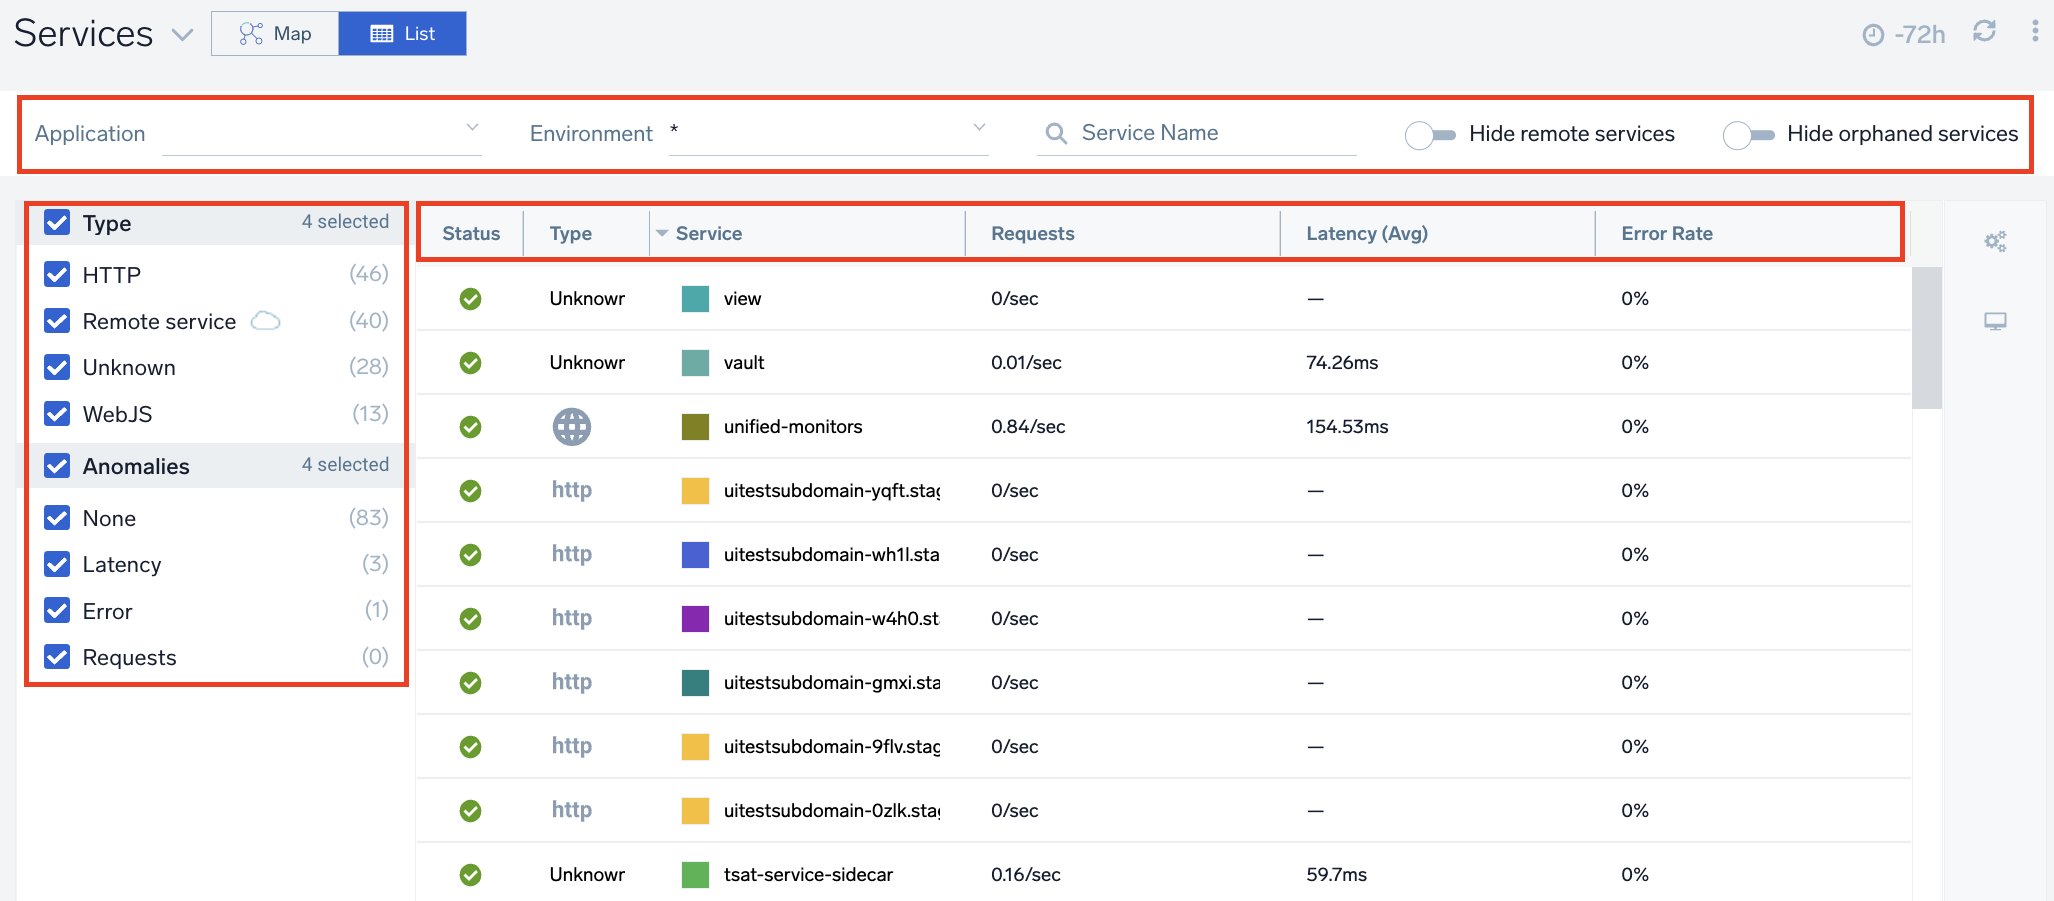
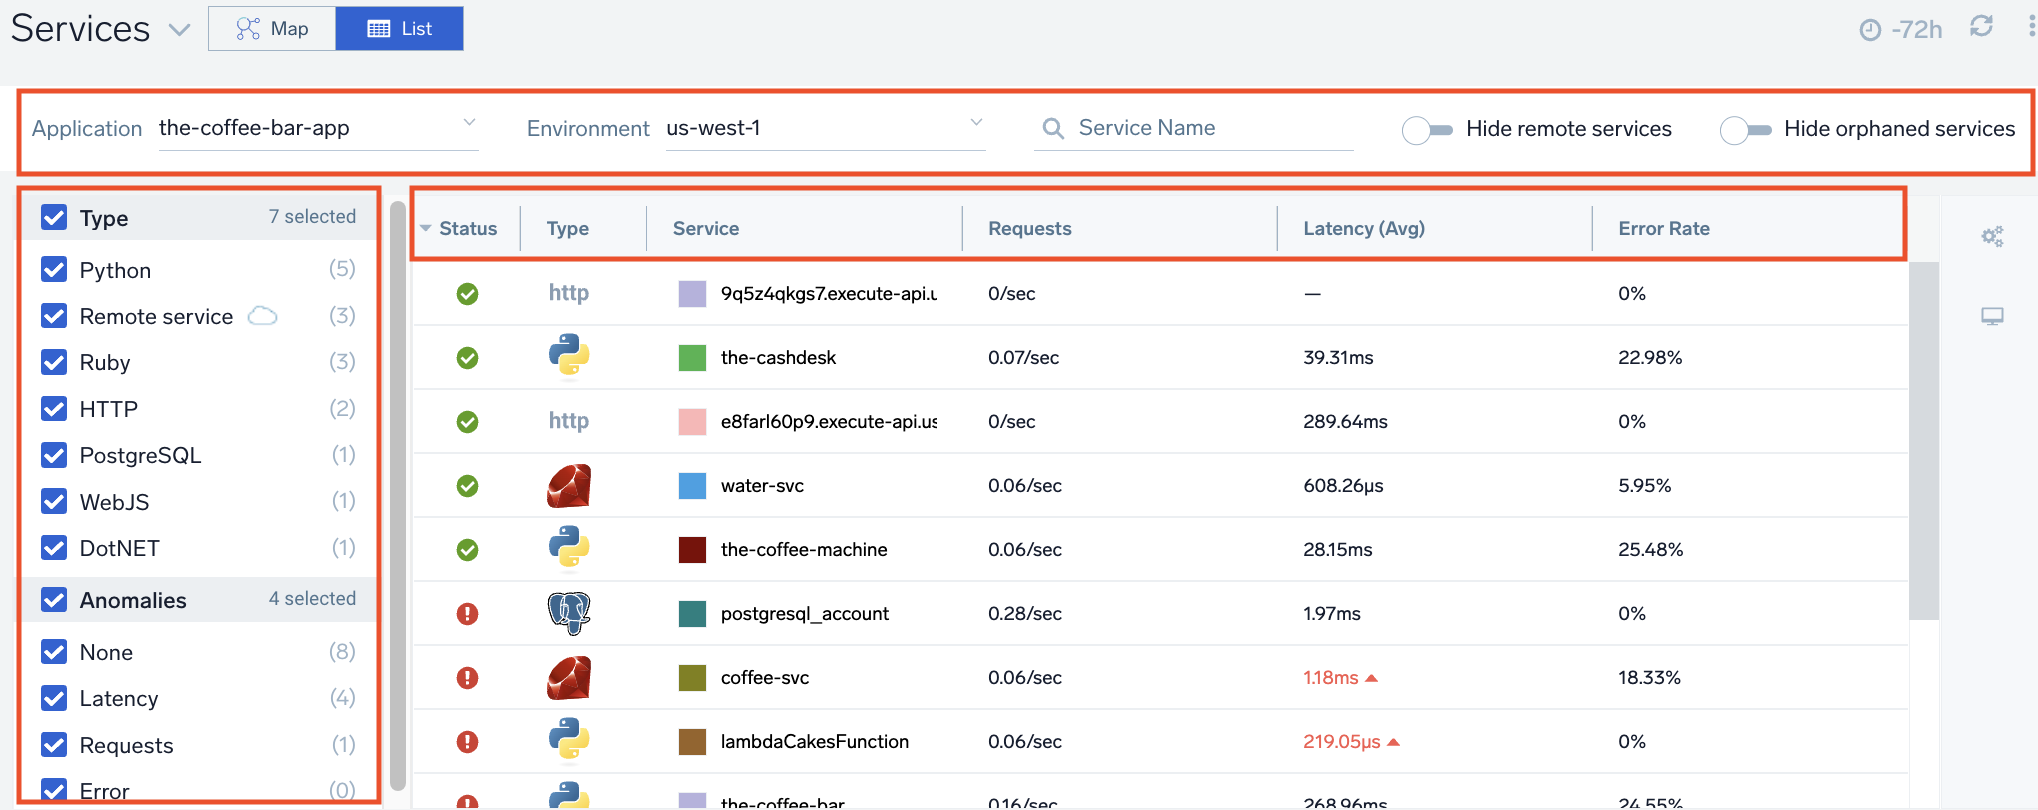
fixes

diff --git a/sidebars.ts b/sidebars.ts
@@ -1452,7 +1452,7 @@ module.exports = {
         collapsed: true,
         link: {type: 'doc', id: 'apm/traces/working-with-tracing-data/index'},
         items: [
-          'apm/traces/working-with-tracing-data/service-map',
+          'apm/traces/working-with-tracing-data/services-list-map',
           'apm/traces/working-with-tracing-data/tracing-dashboards',
           'apm/traces/working-with-tracing-data/view-and-investigate-traces',
           'apm/traces/working-with-tracing-data/spans',

diff --git a/docs/apm/traces/working-with-tracing-data/services-list-map.md b/docs/apm/traces/working-with-tracing-data/services-list-map.md
@@ -1,5 +1,5 @@
 ---
-id: service-map
+id: services-list-map
 title: Services List and Map
 description: View your application topology and investigate microservice interactions.
 ---
@@ -12,18 +12,28 @@ To open the Services List and Map, click **+ New** > **Services**.
 
 ## Services List view
 
-The **Services List** view provides a compact, high-level overview of your application service health insights and KPIs.
+The **Services List** view provides a compact, high-level overview of your application service health insights and KPIs. You can filter and sort your KPI data using the filters and column headers.
 
-![panel-service.png](/img/traces/service-list.png)
+![services-list-display](/img/traces/services-list-filters.png)
+
+KPIs listed in the table reflect the previous 15 minutes of data. Clicking on any service will open the Entities panel allowing for further drill-down.
+
+### General Settings
+
+Configure anomaly detection in **General Settings** ([learn more](#anomaly-detection)).
+
+<img src={useBaseUrl('img/traces/services-list-settings.png')} alt="services-list-settings" />
 
 
-### Settings
+:::note
+Your Services List and Map settings are specific to you (not your team) and will be preserved in your browser's local storage.
+:::
 
-KPIs listed in the table reflect the previous 15 minutes of data. Click on any service opens the Entities panel supporting further drill-down.
+### Display Settings
 
-* Filter and sort your KPI data using the filters and column headers <br/>![services-list-display](/img/traces/services-list-filters.png)
-* Display and hide columns using **Display Settings** <br/>![services-list-display](/img/traces/services-list-display.png)
-* Configure anomalies in **Settings**<br/> <img src={useBaseUrl('img/traces/services-list-settings.png')} alt="services-list-settings" width="400"/>
+Display and hide columns using **Display Settings**.
+
+![services-list-display](/img/traces/services-list-display.png)
 
 
 ## Services Map view
@@ -40,13 +50,25 @@ The Services Map provides the following features:
 * Hover over a service to see its connections to other services and the last 15 minutes of activity in terms of latency, requests, and errors
 * Click on a service to open the Entity Inspector with the ability to drill down to traces, metrics, and the service dashboard
 * Filter by application (if your tracing data has the `application=[app-name]` tag)
-* Search for a service by name<br/> ![service map april 2021.png](/img/traces/service-map-example.png)
+* Search for a service by name<br/> ![service map april 2021.png](/img/traces/services-list-map-example.png)
+
+
+### General Settings
+
+Configure anomaly detection in **General Settings** ([learn more](#anomaly-detection)).
+
+<img src={useBaseUrl('img/traces/settings-general.png')} alt="service map gear icon for settings" width="450"/>
 
 ### Map legend
 
 ![services-map-legend](/img/traces/services-map-legend.png)
 
-* **Color** of services: Red indicates an anomaly and blue indicates normal activity. This is based on Automatic or Manual anomaly detection thresholds, which are configured in your **Settings**.
+* **Color** of services:
+  * Red represents anomalies.
+  * Blue indicates normal, expected activity.
+  :::note
+  You can configure your own thresholds for anomaly detection in your **General Settings**.
+  :::
 * **Shape** of services:
   * Circles represent connected application services
   * Cloud icons represent remote services like databases or external calls, which are automatically detected for you in client traffic even without using direct instrumentation
@@ -54,14 +76,28 @@ The Services Map provides the following features:
   * Circle and arrows with dotted lines represent services or connections that have been inactive an hour or more.
 * **Size** of services: Size is based on service activity, where large circles are more active compared to smaller circles that are less active.  
 
-### Settings
 
-Your settings are specific to you (not your team) and will be preserved in your browser's local storage. Open the **Settings** menu by clicking the gears icon in the top-right corner.   
+## Anomaly Detection
 
-<img src={useBaseUrl('img/traces/settings-general.png')} alt="service map gear icon for settings" width="450"/>
+An anomaly is a spike in latency and errors or a dip in requests. In both the **Services Map** and **Services List** views, automatic anomaly detection is enabled by default. 
+
+### Automatic
+
+With the **Worst Case** option selected (default), a service is displayed in a red circle if at least one of the KPIs (latency, errors, requests) has had an anomaly in the last 15 minutes AND the anomaly was not present 7 days ago at the same time. You can explicitly choose one of the other KPIs instead.
+
+<img src={useBaseUrl('img/traces/services-list-map-auto-detection-settings.png')} alt="auto service anomaly settings" width="400" />
+
+The standard [metric outlier operator](/docs/metrics/metric-charts/metrics-outliers) is used to detect this. You can adjust the sensitivity and **Learning window** of the outlier detection in the settings to make the logic more or less dependent on occasional spikes. 
+
+### Manual
+Manual anomaly detection allows you to specify different detection settings for each KPI. Click the toggle switch to manually enable or disable each KPI highlight as desired.
+
+<img src={useBaseUrl('img/traces/services-list-map-manual-detection-settings.png')} alt="services manual anomaly detection settings" width="400"/>
 
 
-### Services Dashboard Panels
+
+
+## Services Dashboard Panels
 
 The **Services Map** and **Services List** panels, available out of the box, enable you to explore your application environment and review all traces from your Dashboard. You can duplicate or add multiple panels with different filtering or queries to refine views and support your organization.
 
@@ -73,7 +109,7 @@ To add a Services panel to your Dashboard:
 1. Select from the dropdown menus to filter by the following:<br/>  ![filter-servicemap.png](/img/traces/filter-servicemap.png)
    * **Application** (Optional). You can use this if your tracing data has the `application=[app-name]` tag
    * **Environment**. Your production, staging, or development environment name
-   * **Services**. To pass the variables from dashboard filters, set `application={{application}}` and/or `service={{service}}`
+   * **Service(s)** (Optional). To pass the variables from dashboard filters, set `application={{application}}` and/or `service={{service}}`
 1. Go to the **General** tab to configure your panel details (name, **Title Font Size**, and **Description**). <br/> <img src={useBaseUrl('img/traces/tracelist-details.png')} alt="panel details" width="330"/>
 1. For **Table** chart type only: Go to **Display Settings** and set the column data and services you'd like to see displayed.<br/> <img src={useBaseUrl('img/traces/display-settings-setup.png')} alt="display-settings-setup" width="500"/>
 1. Click **Add to Dashboard**. The panel loads in your Dashboard to review your applications and services according to filtering.
@@ -81,16 +117,3 @@ To add a Services panel to your Dashboard:
 :::tip
 See the [Dashboard (New) guide](/docs/dashboards-new) for additional information and options to create panels, configure filters, create and filter with template variables from dashboard headers, and more.
 :::
-
-
-## Anomaly Detection
-
-An anomaly is a spike in latency and errors or a dip in requests. In both **Map** view and **List** view, automatic anomaly detection is enabled by default. A service is displayed in a red circle if at least one of the KPIs (latency, errors, requests) has an anomaly in the last 15 minutes AND the anomaly was not present 7 days ago at the same time. In the **Settings** menu, this default option is called **Worst Case**. You can explicitly choose one of the KPIs instead.
-
-The standard metric outlier operator is used to detect this. You can adjust the sensitivity and **learning window** of the outlier detection in the settings menu to make the logic more or less dependent on occasional spikes. 
-
-<img src={useBaseUrl('img/traces/auto-service-map-settings.png')} alt="auto-service-map-settings" width="300"/>
-
-Manual anomaly detection settings allow you to specify different detection settings for each KPI. Click the toggle switch to activate these settings on and off. You can explicitly toggle each KPI as desired.
-
-<img src={useBaseUrl('img/traces/service-map-manual-detection-settings.png')} alt="service-map-manual-detection-settings" width="300"/>

diff --git a/docs/apm/real-user-monitoring.md b/docs/apm/real-user-monitoring.md
@@ -68,7 +68,7 @@ To configure a RUM HTTP Traces source:
    * **Description**. (Optional) description of the Source .
    * **Source Host** and **Source Category**. (Optional) Enter any string to tag the output collected from the source. These are [built-in metadata](/docs/search/get-started-with-search/search-basics/built-in-metadata.md) fields that allow you to organize your data. We recommend you specify a Source Category indicating the data is from a browser.<br/><img src={useBaseUrl('/img/rum/RUM-HTTP-Traces-Source.png')} alt="Real User Monitoring" width="300"/>
 1. Enter **Advanced options for Browser RUM**. A list of FAQs on the page can provide help for these options. A table with all the available configuration parameters is available in the [Sumo Logic OpenTelemetry auto-instrumentation for JavaScript](https://github.com/SumoLogic/sumologic-opentelemetry-js) README file.<br/><img src={useBaseUrl('img/rum/RUM-HTTP-Traces-Source-Advanced.png')} alt="Real User Monitoring" width="300"/>
-   * **Application Name**. (Recommended) Add an **Application Name** tag of a text string to show for the app name in spans (for example, `bookings-app`). This groups services in the Application Service View. If left blank, services will belong to a "default" application. See [Application Service Dashboards](/docs/apm/traces/working-with-tracing-data/service-map.md) for more information. This setting is saved in the script for `name_of_your_web_application`.
+   * **Application Name**. (Recommended) Add an **Application Name** tag of a text string to show for the app name in spans (for example, `bookings-app`). This groups services in the Application Service View. If left blank, services will belong to a "default" application. See [Application Service Dashboards](/docs/apm/traces/working-with-tracing-data/services-list-map.md) for more information. This setting is saved in the script for `name_of_your_web_application`.
    * **Service Name**. ( Required) Add a **Service Name** of a text string to show for the service name in spans (for example, `bookings-web-app`). This setting is saved in the script for `name_of_your_web_service`.<br/><br/>To set up a service name dynamically (e.g., to have different service names for micro-frontend packages), leverage the `getOverriddenServiceName` function inside your page code to overwrite the default service name (requires RUM script v4.2.0 or higher). Service names should be of low cardinality and should describe parts of your website above page level. Here's an example code leveraging that function:
    ```javascript
         window.sumoLogicOpenTelemetryRum.initialize({

diff --git a/docs/dashboards-new/explore-view.md b/docs/dashboards-new/explore-view.md
@@ -55,7 +55,7 @@ This feature is currently supported only for Database apps. To learn more, go to
 
 ### Application Service Views
 
-Explore provides two Service and Application dashboard views accessible through the **Explore By** menu. This allows you to review tracing data by application (all or grouped) and services by top level and breaking down their health by application. This helps you review the most active operations performed on specified applications and services. See [Service Map Traces](/docs/apm/traces/working-with-tracing-data/service-map.md#Application_Service_Dashboards) and [Sumo Apps](/docs/integrations) for more info. <br/><img src={useBaseUrl('img/dashboards-new/explore/apm-service-view.png')} alt="Explore" />
+Explore provides two Service and Application dashboard views accessible through the **Explore By** menu. This allows you to review tracing data by application (all or grouped) and services by top level and breaking down their health by application. This helps you review the most active operations performed on specified applications and services. See [Service Map Traces](/docs/apm/traces/working-with-tracing-data/services-list-map.md#Application_Service_Dashboards) and [Sumo Apps](/docs/integrations) for more info. <br/><img src={useBaseUrl('img/dashboards-new/explore/apm-service-view.png')} alt="Explore" />
 
 
 ### Real User Monitoring

diff --git a/blog-service/2021/12-31.md b/blog-service/2021/12-31.md
@@ -627,7 +627,7 @@ New - We're excited to announce our [Service Map and Dashboards](https://help.s
 -   Your microservices and connections between them, to give you insight into their dependencies and relations.
 -   Health and load of each microservice reflected in size and color, so you can immediately ascertain potential problems and bottlenecks in your application infrastructure.
 
-Read more about how our [Service Map & Dashboards Provide Insight into Health and Dependencies of Microservice Architecture](https://www.sumologic.com/blog/service-map-dashboards/ "https://www.sumologic.com/blog/service-map-dashboards/")
+Read more about how our [Service Map & Dashboards Provide Insight into Health and Dependencies of Microservice Architecture](https://www.sumologic.com/blog/services-list-map-dashboards/ "https://www.sumologic.com/blog/services-list-map-dashboards/")
 
 Interested in training? [Register](https://sumologic.zoom.us/webinar/register/WN_f7w0mzdbQO-V1rcC06_nLw "https://sumologic.zoom.us/webinar/register/WN_f7w0mzdbQO-V1rcC06_nLw") for an Enhanced Tracing with Sumo Logic webinar on 3/25/21 from 9am-11am PST.
 

diff --git a/docs/dashboards-new/panels/index.md b/docs/dashboards-new/panels/index.md
@@ -147,7 +147,7 @@ In the panel, the link is displayed. 
 
 ![icon-service-map.png](/img/dashboards-new/panels/icon-service-map.png)
 
-The [Service Map](/docs/apm/traces/working-with-tracing-data/service-map) is a high-level view of your application environment, giving you a greater view and understanding of your application architecture and dependencies between monitored microservices.
+The [Service Map](/docs/apm/traces/working-with-tracing-data/services-list-map) is a high-level view of your application environment, giving you a greater view and understanding of your application architecture and dependencies between monitored microservices.
 
 The panel gives you a fully functioning map to zoom in and out and move through services. The size and color of application entities shows status and activity. Click on a service to open the Entity Inspector to drill down to traces, metrics, and the service dashboard.
 

diff --git a/blog-service/2023-01-17-traces.md b/blog-service/2023-01-17-traces.md
@@ -13,6 +13,6 @@ authors:
 
 import useBaseUrl from '@docusaurus/useBaseUrl';
 
-Our new tracing **Services List** view provides a high-level summary of your service health insights and important KPIs in one compact table, allowing you to spot potential issues in your application infrastructure. [Learn more](/docs/apm/traces/working-with-tracing-data/service-map).
+Our new tracing **Services List** view provides a high-level summary of your service health insights and important KPIs in one compact table, allowing you to spot potential issues in your application infrastructure. [Learn more](/docs/apm/traces/working-with-tracing-data/services-list-map).
 
 <img src={useBaseUrl('img/traces/service-list.png')} alt="service list"/>

diff --git a/docs/api/tracing.md b/docs/api/tracing.md
@@ -41,7 +41,7 @@ Sumo Logic has several deployment types, which vary by geographic location and t
 
 ## Service Map API
 
-The Service Map API allows you to fetch a graph representation of the Service Map, which is a high-level view of your application environment, automatically derived from tracing data. For more information see [Service Map](/docs/apm/traces/Working-with-Tracing-data/Service-Map).
+The Service Map API allows you to fetch a graph representation of the Service Map, which is a high-level view of your application environment, automatically derived from tracing data. For more information see [Service Map](/docs/apm/traces/Working-with-Tracing-data/services-list-map).
 
 
 ### Endpoints for API access  

diff --git a/docs/apm/traces/working-with-tracing-data/tracing-dashboards.md b/docs/apm/traces/working-with-tracing-data/tracing-dashboards.md
@@ -59,7 +59,7 @@ See the [Dashboard (New) guide](/docs/dashboards-new) for additional information
 
 The **Services Table** and **Services Graph** panels display a services list and services map, respectively, for filtered applications and services, with the ability to explore the environment.
 
-To add a Service Map panel to your Dashboard, see [Services Dashboard Panels](/docs/apm/traces/working-with-tracing-data/service-map/#services-dashboard-panels).
+To add a Service Map panel to your Dashboard, see [Services Dashboard Panels](/docs/apm/traces/working-with-tracing-data/services-list-map/#services-dashboard-panels).
 
 ### Trace List panel
 
